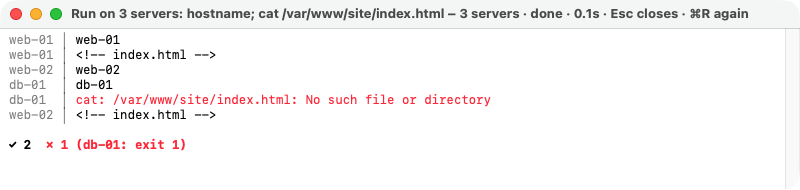
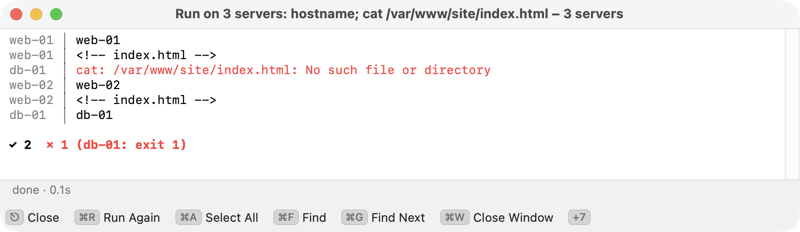
Docs: re-shoot the screenshots after the redesign
The window, server rows, Services…, Forward Port…, Run on Servers and the
viewer, in the light theme, with made-up files and throwaway servers only.
The viewer's caption says where its keys are now.

diff --git a/docs/viewer-editor.md b/docs/viewer-editor.md
@@ -10,7 +10,7 @@ Press F3 (⌥3) on a file. Close it with ⎋, `q` or ⌘W, or with F3 or F10 its
 
 The window's title is the file's name, with where it is under it: `~/Projects/site`, or on a server its saved name and folder, `web-01 · /var/log/nginx`. The Window menu lists it with both, `app.log — web-01 · /var/log/nginx`, so two files of one name read apart there. Below the text, a status line says what it shows: size and encoding, a filter in words (`lines with “error”, errors only`), `following`. Along the bottom, the key bar shows its keys, then the menu keys that work there; click a slot to do what its key does. The toolbar holds the same switches: **Text | Hex | Readable** (Readable only for the formats below), **Wrap**, **Lines** and **Follow** (lit while on), the **Filter lines** field (`&` goes there; ↩ applies it, ⎋ goes back to the text) and **All | Warnings | Errors**.
 
-![The viewer on a service log: its colors as the program wrote them, line numbers on, the keys in the title](images/viewer-log.png)
+![The viewer on a service log: its colors as the program wrote them, line numbers on, the switches in the toolbar and the keys along the bottom](images/viewer-log.png)
 
 - `h`: switch between hex and text. A file that looks binary opens as hex; `h` shows it as text. Hex shows 1 MB: the first one, or in a huge file the one at the top of the window.
 - `p`: switch between readable and raw. `.plist`, `.json`, `.strings`, `.mobileconfig` and `.entitlements` files open readable (binary plists as XML; JSON is re-indented with its keys sorted). On a file that isn't valid plist or JSON, `p` shows its text as it is; on files over 4 MB it beeps.
